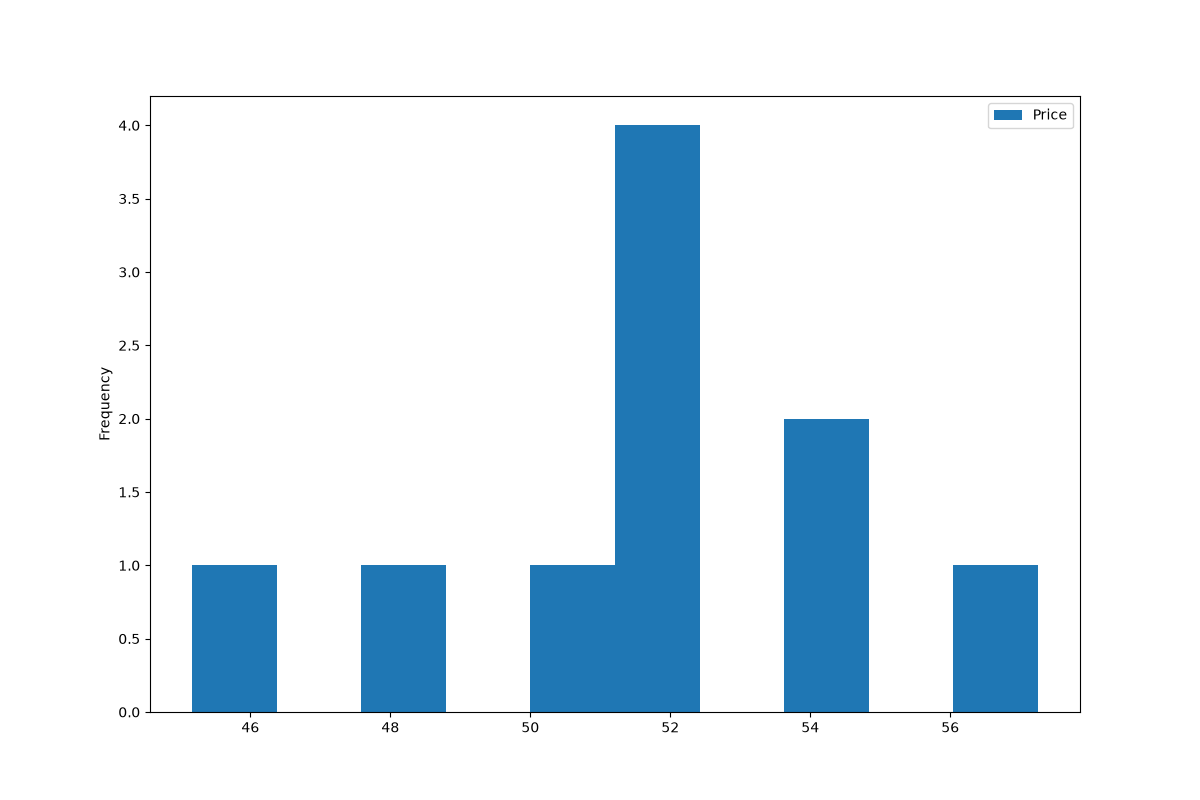
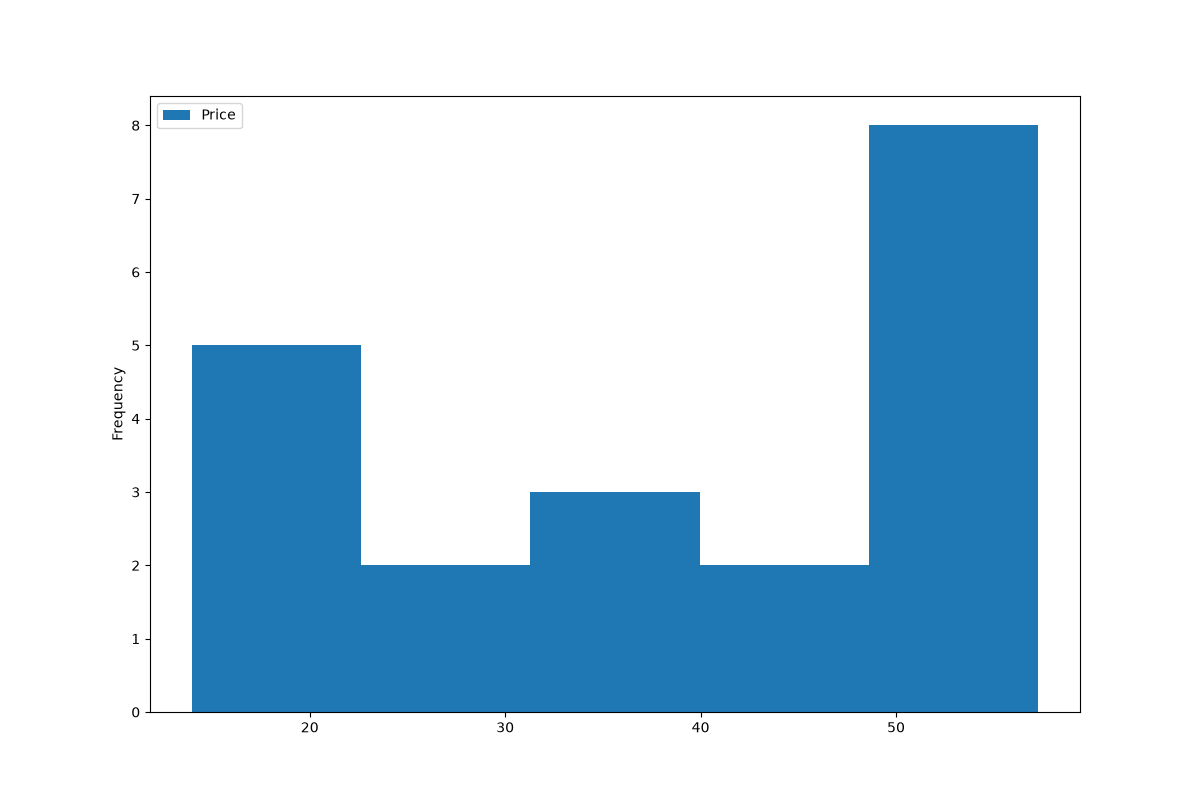
more code

diff --git a/src/analytics.py b/src/analytics.py
@@ -5,6 +5,7 @@ import math
 import matplotlib.pyplot as plt
 from src.config import HIST
 from src.config import BAR_CHART
+from src.config import PIE_CHART
 
 
 def top_10(table):
@@ -15,16 +16,27 @@ def top_10(table):
     top = table.sort_values('Price', ascending=False)
     return top.head(10)
 
+def rating_count(table):
+#    average_ratings_bymoviestopdown = (
+#    average_ratings_bymovies.sort_values('rating', ascending=False)
+#)
+#    df_data2_count = df_data2['tag'].value_counts()
+#    print(df_data2_count.head())
+    count = table['Rating'].value_counts().sort_index()
+    return count
 
-
-def graph(top_10table):
+def graph(table, top_10table, ratingCt):
 #plot histogram
 #    df_data3.hist(column="rating", figsize=(15, 10), bins=10)
 #    plt.savefig('../img/show_histogram')
-    top_10table.plot(kind="hist", y="Price", figsize=(12, 8), bins=10)
+    table.plot(kind="hist", y="Price", figsize=(12, 8), bins=5)
     plt.savefig(HIST)
+    plt.clf()
     top_10table.plot(kind="barh", y="Price", figsize=(12, 8), x="Book title")
     plt.savefig(BAR_CHART)
+    plt.clf()
+    ratingCt.plot(kind="pie", y="Rating", figsize=(12, 8))
+    plt.savefig(PIE_CHART)
     return
 
 

diff --git a/main.py b/main.py
@@ -9,7 +9,7 @@ import pandas as pd
 from src.log import log_analysis
 from src.analytics import graph
 from src.analytics import top_10
-
+from src.analytics import rating_count
 
 def main():
     session_main = requests.Session()
@@ -24,8 +24,9 @@ def main():
 
     log_analysis(df)
 
+    rate = rating_count(df)
     top = top_10(df)
-    graph(top)
+    graph(df, top, rate)
 
 if __name__ == "__main__":
     main()

diff --git a/src/config.py b/src/config.py
@@ -6,6 +6,7 @@ DB = PROJECT_ROOT / "data" / "database.db"
 LOG = PROJECT_ROOT / "logs" / "log.txt"
 HIST = PROJECT_ROOT / "docs" / "histogram.png"
 BAR_CHART = PROJECT_ROOT / "docs" / "bar_chart.png"
+PIE_CHART = PROJECT_ROOT / "docs" / "pie_chart.png"
 WEBSITE = "https://books.toscrape.com/catalogue/page-{page}.html"
 RATING_MAP = {
     "One": 1,
